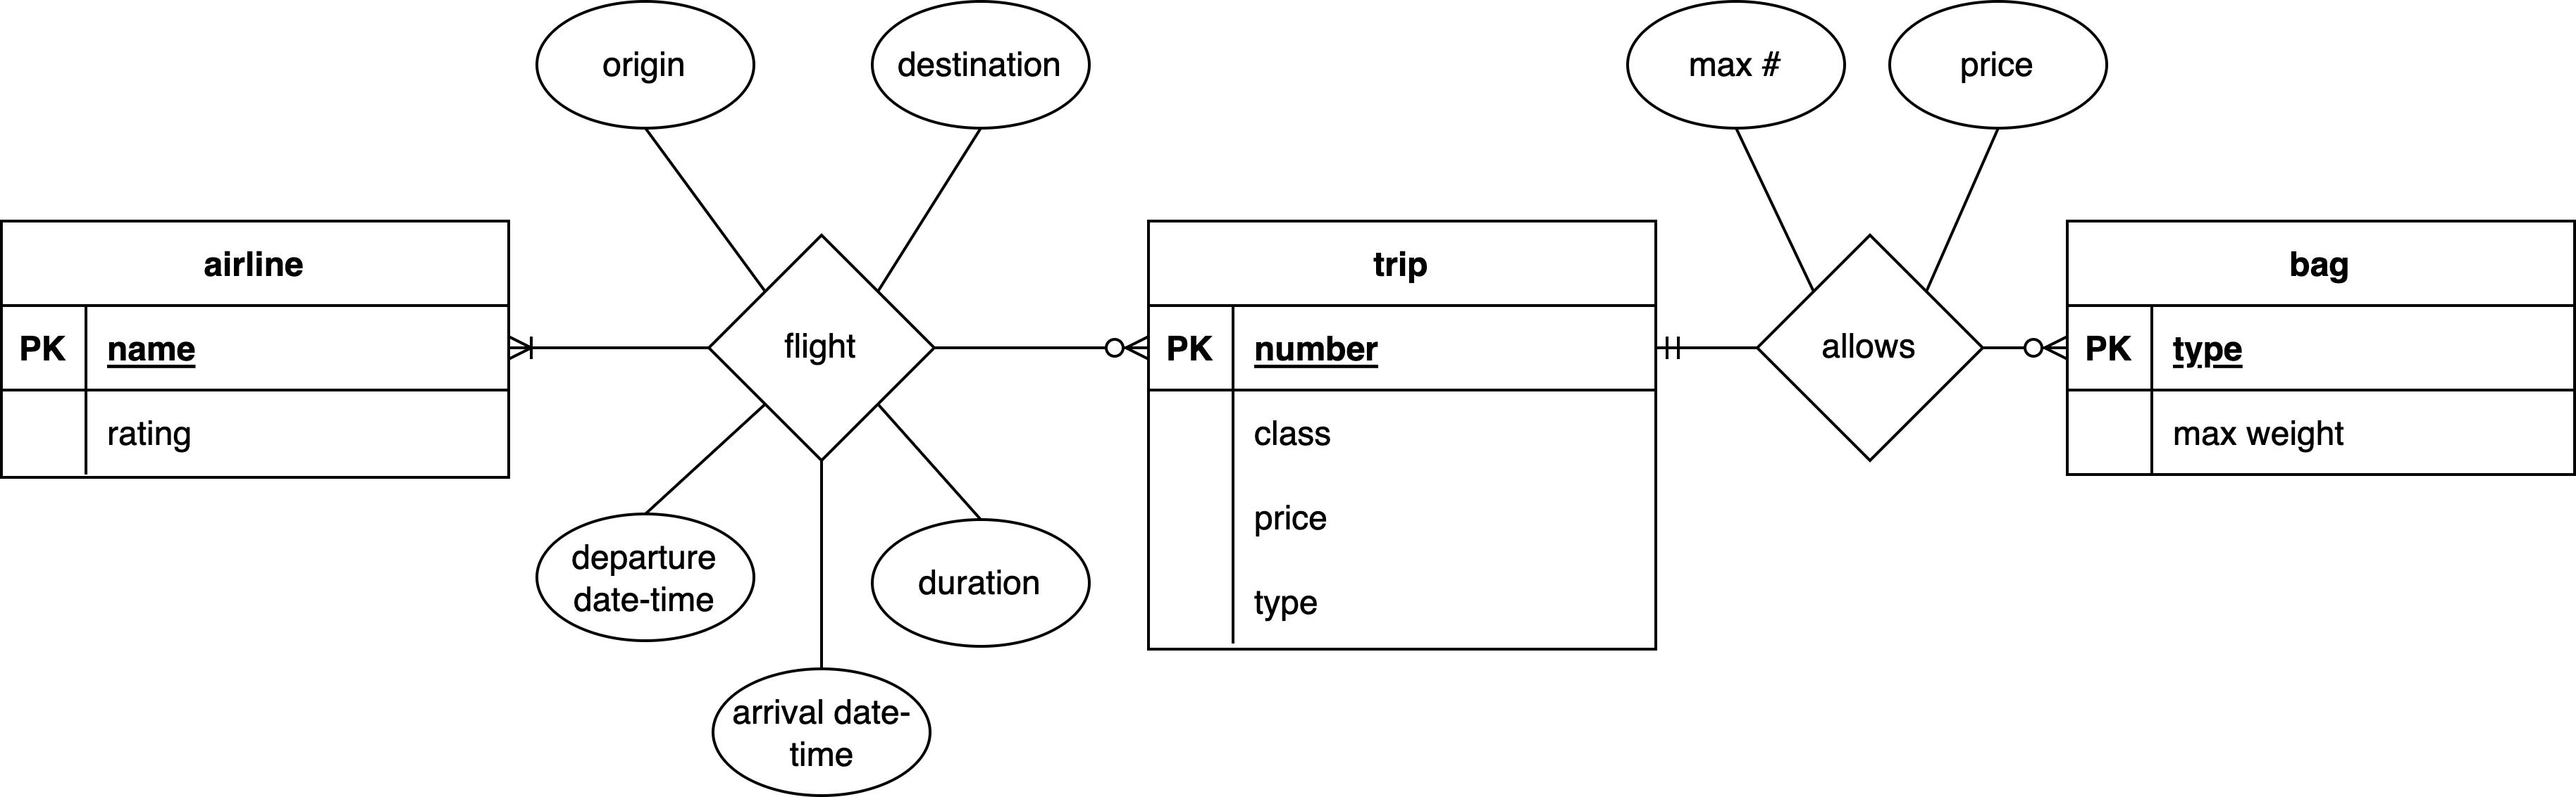
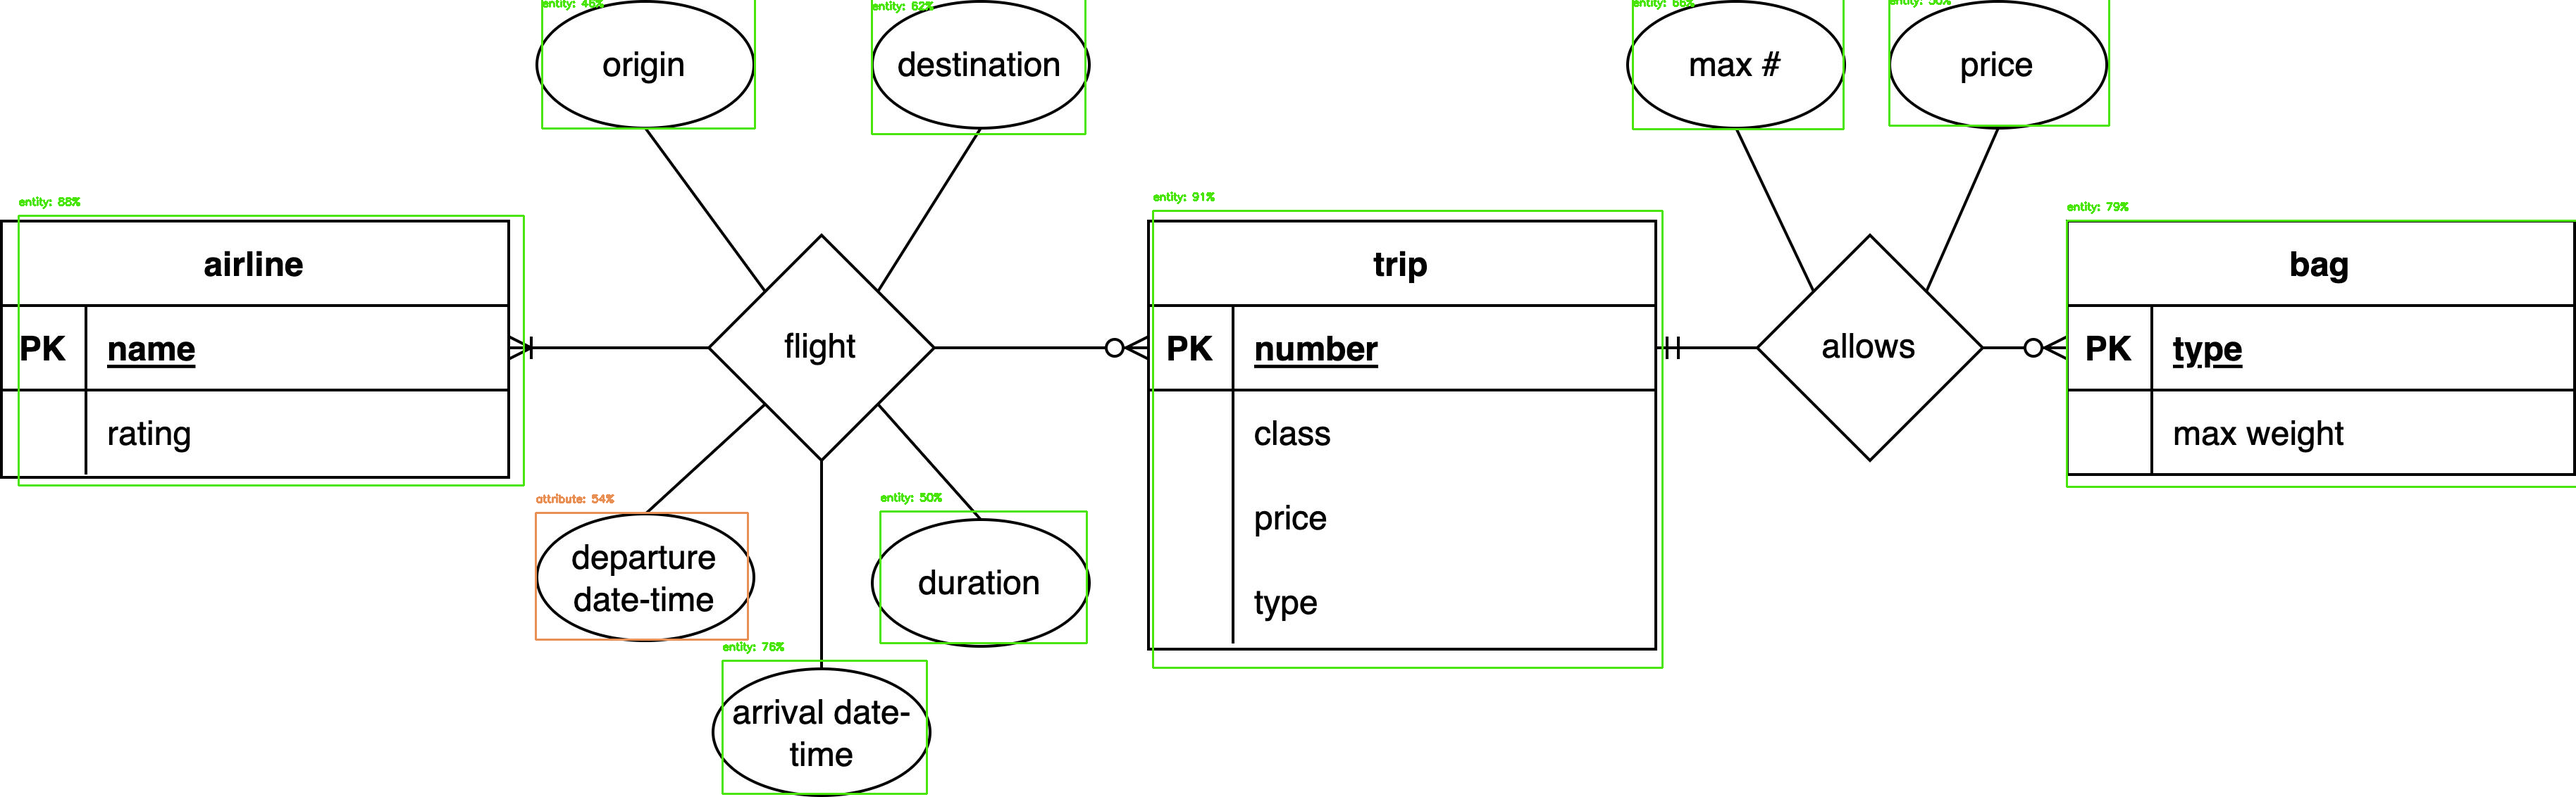
updated the model

diff --git a/Stage_1/__main__.py b/Stage_1/__main__.py
@@ -11,7 +11,7 @@ tf.get_logger().setLevel('ERROR')
 from absl import logging
 logging.set_verbosity(logging.ERROR)
 
-MODEL_PATH = 'Data\Models\model#0.tflite'
+MODEL_PATH = 'Data\Models\model#4-100epcohs.tflite'
 DETECTION_THRESHOLD = 0.3
 
 def main():
@@ -51,11 +51,12 @@ def main():
     ima = Image.fromarray(detection_result_image)
     ima.save(TEMP_FILE_PATH, 'PNG')
 
+    print(boxes)
+
     #display image in a different window
     """ show_img = mpimg.imread(TEMP_FILE_PATH)
     imgplot = plt.imshow(show_img)
     plt.show() """
-    print(boxes)
 
 if __name__=='__main__':
     main()

diff --git a/Data/training.py b/Data/training.py
@@ -35,7 +35,7 @@ test_data = object_detector.DataLoader.from_pascal_voc(
     label_map={1: 'entity', 2: 'weakentity', 3: 'relationship', 4: 'weakrelationship', 5: 'attribute'}
 )
 
-spec = model_spec.get('efficientdet_lite0') # can use 0-4, 0 fast but inprecise
+spec = model_spec.get('efficientdet_lite4') # can use 0-4, 0 fast but inprecise
 
 model = object_detector.create(train_data, model_spec=spec, batch_size=20, train_whole_model=True, epochs=100, validation_data=val_data)
 

diff --git a/Data/visualization.py b/Data/visualization.py
@@ -10,7 +10,7 @@ logging.set_verbosity(logging.ERROR)
 
 from PIL import Image
 
-model_path = 'Data\Models\model.tflite'
+model_path = 'Data\Models\model#4-100epcohs.tflite'
 
 # Load the labels into a list
 classes = ['entity', 'weakentity', 'relationship', 'weakrelationship', 'attribute']
